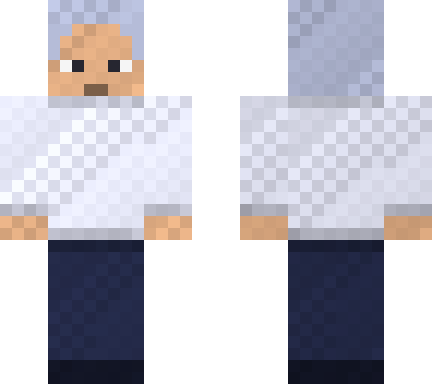
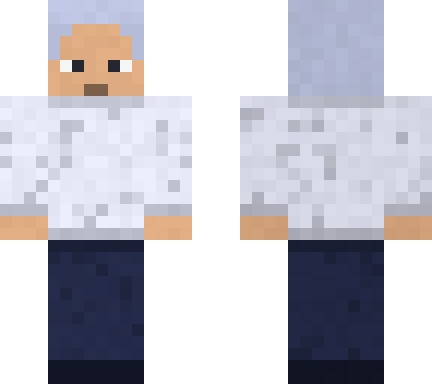
fallback: MC-style spot texture (no checker), 3D hair overlay; variant: accept wide alias
Slim verified: fallback slim skin is structurally valid and a slim panel
round-trip through the mapper recovers front/back faces exactly (0/656
mismatched vs the overlay composite).

diff --git a/src/fallback.js b/src/fallback.js
@@ -76,14 +76,31 @@ export async function extractColors(input, count = 3) {
 
 // --- template painting -------------------------------------------------------
 
-// Baked-in cloth texture: a subtle deterministic weave.
-const weave = (x, y) => 1 + ((((x * 31 + y * 17) % 7) - 3) * 0.02) + ((x + y) % 2 ? -0.02 : 0.02);
+// Deterministic pixel hash for texture. No alternating patterns: a regular
+// checker reads as PNG transparency at skin resolution.
+function hash2(x, y) {
+  let h = (x * 374761393 + y * 668265263) >>> 0;
+  h = ((h ^ (h >>> 13)) * 1274126177) >>> 0;
+  return (h ^ (h >>> 16)) >>> 0;
+}
 
-function fill(atlas, rect, color, mul = 1) {
+// Cloth texture like the default Minecraft skins: mostly flat with scattered
+// clusters of darker pixels.
+function texMul(x, y, spots) {
+  let m = 1 + ((hash2(x, y) % 5) - 2) * 0.01;
+  if (spots) {
+    const s = hash2(x + 101, y + 57) % 100;
+    if (s < 10) m *= 0.84;
+    else if (s < 18) m *= 0.92;
+  }
+  return m;
+}
+
+function fill(atlas, rect, color, mul = 1, spots = false) {
   for (let y = 0; y < rect.h; y++)
     for (let x = 0; x < rect.w; x++) {
       const i = AIDX(rect.x + x, rect.y + y);
-      const j = weave(rect.x + x, rect.y + y) * mul;
+      const j = texMul(rect.x + x, rect.y + y, spots) * mul;
       atlas[i] = clamp(color[0] * j);
       atlas[i + 1] = clamp(color[1] * j);
       atlas[i + 2] = clamp(color[2] * j);
@@ -134,6 +151,17 @@ export async function fallbackAtlas(characterImage, { variant = 'classic' } = {}
   px(atlas, H.front, 0, 3, hair); px(atlas, H.front, 7, 3, hair); // side locks
   px(atlas, H.front, 0, 4, hair); px(atlas, H.front, 7, 4, hair);
   fill(atlas, H.bottom, SKIN, 0.7);
+  // 3D hair layer: the hat overlay carries the same hair slightly lighter,
+  // so it stands off the head in game.
+  const HO = P.head.overlay;
+  fill(atlas, HO.top, darken(hair, 1.08));
+  fill(atlas, HO.back, hair, 0.96);
+  for (const side of ['right', 'left']) fill(atlas, rows(HO[side], 0, 5), hair, 0.9);
+  fill(atlas, rows(HO.front, 0, 2), darken(hair, 1.05));
+  px(atlas, HO.front, 0, 2, hair); px(atlas, HO.front, 1, 2, hair);
+  px(atlas, HO.front, 6, 2, hair); px(atlas, HO.front, 7, 2, hair);
+  px(atlas, HO.front, 0, 3, hair); px(atlas, HO.front, 7, 3, hair);
+  px(atlas, HO.front, 0, 4, hair); px(atlas, HO.front, 7, 4, hair);
   // Fixed face: eye whites, pupils, mouth.
   px(atlas, H.front, 1, 5, [245, 245, 245]);
   px(atlas, H.front, 6, 5, [245, 245, 245]);
@@ -146,7 +174,7 @@ export async function fallbackAtlas(characterImage, { variant = 'classic' } = {}
   const B = P.body.base;
   for (const side of ['front', 'back', 'right', 'left']) {
     const mul = SIDE_MUL[side];
-    fill(atlas, B[side], shirt, mul);
+    fill(atlas, B[side], shirt, mul, true);
     fill(atlas, rows(B[side], 0, 1), darken(shirt, 0.85), mul); // collar
     fill(atlas, rows(B[side], 11, 12), darken(shirt, 0.8), mul); // hem
   }
@@ -158,7 +186,7 @@ export async function fallbackAtlas(characterImage, { variant = 'classic' } = {}
     const A = arm.base;
     for (const side of ['front', 'back', 'right', 'left']) {
       const mul = SIDE_MUL[side];
-      fill(atlas, rows(A[side], 0, 9), shirt, mul);
+      fill(atlas, rows(A[side], 0, 9), shirt, mul, true);
       fill(atlas, rows(A[side], 9, 10), darken(shirt, 0.8), mul); // cuff
       fill(atlas, rows(A[side], 10, 12), SKIN, mul); // hands
     }
@@ -173,7 +201,7 @@ export async function fallbackAtlas(characterImage, { variant = 'classic' } = {}
     for (const side of ['front', 'back', 'right', 'left']) {
       const mul = SIDE_MUL[side];
       fill(atlas, rows(L[side], 0, 1), darken(pants, 0.75), mul); // belt
-      fill(atlas, rows(L[side], 1, 10), pants, mul);
+      fill(atlas, rows(L[side], 1, 10), pants, mul, true);
       fill(atlas, rows(L[side], 10, 12), shoe, mul); // shoes
     }
     fill(atlas, L.top, pants, 0.9);

diff --git a/src/pipeline.js b/src/pipeline.js
@@ -1,6 +1,6 @@
 // Character image -> valid Minecraft skin.
 // Usage:
-//   node src/pipeline.js <characterImage> <outSkin.png> [--variant classic|slim]
+//   node src/pipeline.js <characterImage> <outSkin.png> [--variant wide|slim]
 //                        [--mock <atlasImage>] [--keep-raw]
 import { writeFile } from 'node:fs/promises';
 import path from 'node:path';
@@ -15,13 +15,17 @@ import { validateSkin } from './validate.js';
 
 const REFERENCE_ATLAS = new URL('../assets/steve512.png', import.meta.url).pathname;
 
+// 'wide' is the launcher's name for the classic 4px-arm model.
+const normalizeVariant = (v) => (v === 'wide' ? 'classic' : v);
+
 export async function characterToSkin(characterImage, outSkin, opts = {}) {
   const {
-    variant = 'classic',
+    variant: rawVariant = 'classic',
     branch = 'panel', // 'panel' (Branch B, default) | 'atlas' (Branch A)
     mockAtlas = null, // pre-made generator output; skips the API call
     keepRaw = false,
   } = opts;
+  const variant = normalizeVariant(rawVariant);
   const rawOut = outSkin.replace(/\.png$/, `.raw-${branch}.png`);
 
   let usedBranch = branch;
@@ -88,7 +92,7 @@ if (import.meta.url === `file://${process.argv[1]}`) {
   };
   const [characterImage, outSkin] = pos;
   if (!characterImage || !outSkin) {
-    console.error('usage: node src/pipeline.js <characterImage> <outSkin.png> [--variant classic|slim] [--branch panel|atlas|fallback] [--mock <generatorOutput>]');
+    console.error('usage: node src/pipeline.js <characterImage> <outSkin.png> [--variant wide|slim] [--branch panel|atlas|fallback] [--mock <generatorOutput>]');
     process.exit(1);
   }
   const res = await characterToSkin(path.resolve(characterImage), path.resolve(outSkin), {

diff --git a/README.md b/README.md
@@ -34,7 +34,8 @@ node src/pipeline.js character.png skin.png
 This writes `skin.png` (ready for the Minecraft launcher or a skin server) and `skin.preview.png` (front/back render).
 
 ```sh
-node src/pipeline.js character.png skin.png --variant slim      # 3px arms (Alex model)
+node src/pipeline.js character.png skin.png --variant slim      # 3px arms (Alex model); default is wide
+node src/pipeline.js character.png skin.png --variant wide      # 4px arms (Steve model), the default
 node src/pipeline.js character.png skin.png --branch fallback   # free, no API call, see below
 ```
 